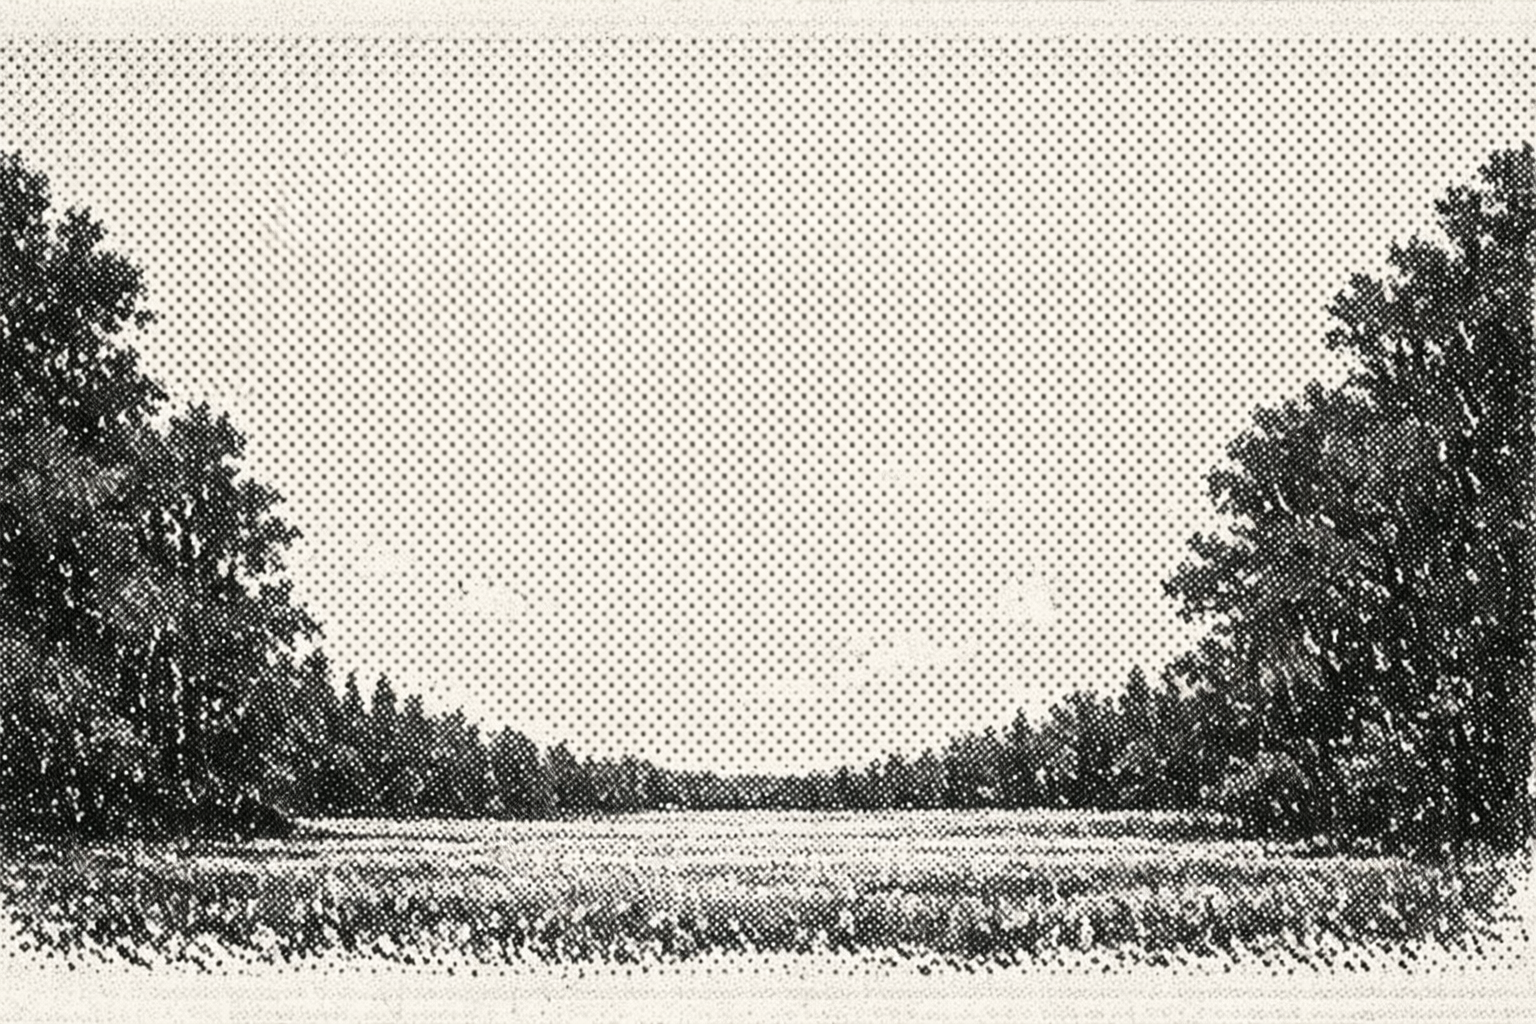
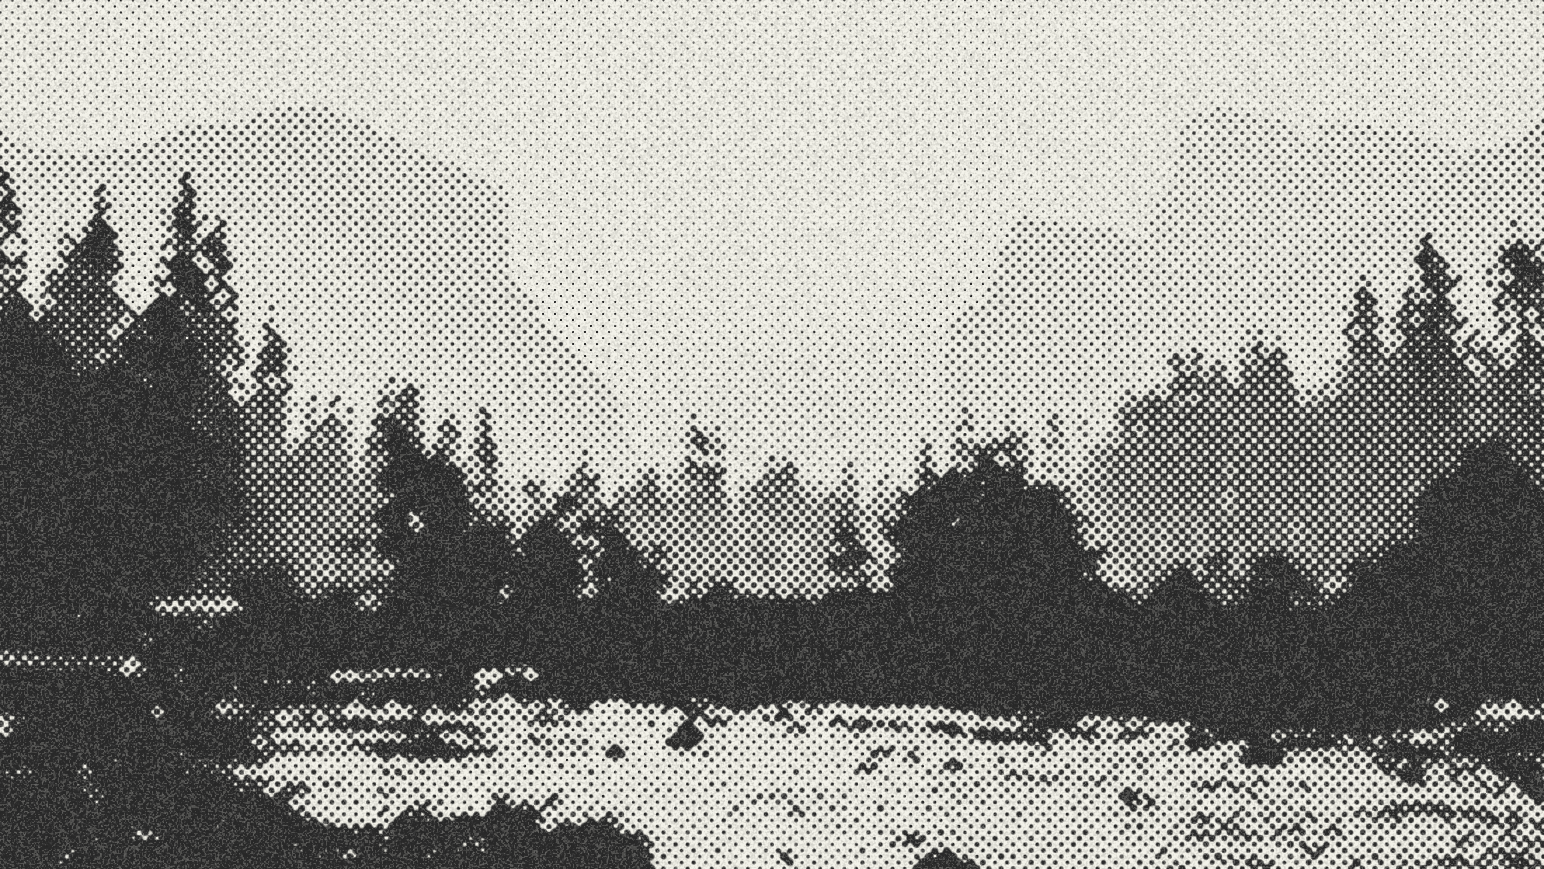
Update footer flourish image and enhance landing page styles with new font and layout adjustments

diff --git a/icrl-ts/web-landing/src/app/page.tsx b/icrl-ts/web-landing/src/app/page.tsx
@@ -163,37 +163,28 @@ export default function LandingPage() {
       <main className="min-h-screen bg-background">
         <SiteHeader />
 
-        <section aria-label="Hero" className="mx-auto max-w-6xl px-6 pb-12 pt-12 md:pt-16">
-          <div className="mx-auto max-w-4xl space-y-6 text-center">
-            <div className="flex items-center justify-center">
-              <Image
-                src="/logo_hero_light.svg"
-                alt="ICRL — In-Context Reinforcement Learning"
-                width={280}
-                height={24}
-                className="dark:hidden"
-                priority
-              />
-              <Image
-                src="/logo_hero_dark.svg"
-                alt="ICRL — In-Context Reinforcement Learning"
-                width={280}
-                height={24}
-                className="hidden dark:block"
-                priority
-              />
-            </div>
-            <h1 className="font-[family-name:var(--font-archivo)] text-4xl font-semibold leading-[1.04] tracking-tight text-foreground sm:text-5xl md:text-6xl">
-              instant, continuous,
-              <br />
-              reinforcement learning
-              <br />
-              for LLM agents
-            </h1>
-            <p className="mx-auto max-w-3xl text-base leading-7 text-muted-foreground sm:text-lg">
-              ICRL turns successful trajectories into reusable decision context so agents improve on
-              the next task instead of waiting for retraining.
-            </p>
+        <section
+          aria-label="Hero"
+          className="mx-auto px-6 pb-12 pt-12 md:pt-32 md:pb-32 max-w-2xl space-y-6 text-center"
+        >
+          <h1 className="font-heading text-4xl font-semibold leading-[1.04] tracking-tight text-foreground sm:text-5xl md:text-6xl">
+            instant, continuous,
+            <br />
+            reinforcement learning
+            <br />
+            for LLM agents
+          </h1>
+          <p className="mx-auto text-base leading-7 text-muted-foreground sm:text-lg text-balance">
+            ICRL turns successful trajectories into reusable decision context so agents improve on
+            the next task instead of waiting for retraining.
+          </p>
+          <div className="flex justify-center">
+            <Button asChild>
+              <a href="/docs">
+                <BookOpen className="size-4" />
+                Open docs
+              </a>
+            </Button>
           </div>
         </section>
 
@@ -202,7 +193,7 @@ export default function LandingPage() {
             <Card className="border-primary/60 bg-card shadow-none md:col-span-7">
               <CardHeader>
                 <CardTitle asChild>
-                  <h2 className="font-[family-name:var(--font-archivo)] text-2xl tracking-tight text-foreground">
+                  <h2 className="font-heading text-2xl tracking-tight text-foreground">
                     What is ICRL
                   </h2>
                 </CardTitle>
@@ -234,7 +225,7 @@ export default function LandingPage() {
             <Card className="border-border/70 bg-card shadow-none md:col-span-5">
               <CardHeader>
                 <CardTitle asChild>
-                  <h2 className="font-[family-name:var(--font-archivo)] text-2xl tracking-tight text-foreground">
+                  <h2 className="font-heading text-2xl tracking-tight text-foreground">
                     ICRL vs traditional RL
                   </h2>
                 </CardTitle>
@@ -263,7 +254,7 @@ export default function LandingPage() {
             <Card className="border-border/70 bg-card shadow-none md:col-span-7">
               <CardHeader>
                 <CardTitle asChild>
-                  <h2 className="font-[family-name:var(--font-archivo)] text-xl tracking-tight text-foreground">
+                  <h2 className="font-heading text-xl tracking-tight text-foreground">
                     Common use cases
                   </h2>
                 </CardTitle>
@@ -288,9 +279,7 @@ export default function LandingPage() {
             <Card className="border-border/70 bg-card shadow-none md:col-span-5">
               <CardHeader>
                 <CardTitle asChild>
-                  <h2 className="font-[family-name:var(--font-archivo)] text-xl tracking-tight text-foreground">
-                    CLI
-                  </h2>
+                  <h2 className="font-heading text-xl tracking-tight text-foreground">CLI</h2>
                 </CardTitle>
               </CardHeader>
               <CardContent className="space-y-4">
@@ -320,9 +309,7 @@ export default function LandingPage() {
             <Card className="border-border/70 bg-card shadow-none md:col-span-5">
               <CardHeader>
                 <CardTitle asChild>
-                  <h2 className="font-[family-name:var(--font-archivo)] text-xl tracking-tight text-foreground">
-                    ICRLHF
-                  </h2>
+                  <h2 className="font-heading text-xl tracking-tight text-foreground">ICRLHF</h2>
                 </CardTitle>
               </CardHeader>
               <CardContent className="space-y-3">
@@ -353,7 +340,7 @@ export default function LandingPage() {
             <Card className="border-border/70 bg-card shadow-none md:col-span-7">
               <CardHeader>
                 <CardTitle asChild>
-                  <h2 className="font-[family-name:var(--font-archivo)] text-xl tracking-tight text-foreground">
+                  <h2 className="font-heading text-xl tracking-tight text-foreground">
                     Proven through Stanford research
                   </h2>
                 </CardTitle>
@@ -399,7 +386,7 @@ export default function LandingPage() {
             >
               <CardContent className="flex flex-col gap-5 py-6 md:flex-row md:items-center md:justify-between">
                 <div className="space-y-2">
-                  <h2 className="font-[family-name:var(--font-archivo)] text-2xl tracking-tight text-foreground">
+                  <h2 className="font-heading text-2xl tracking-tight text-foreground">
                     Start building with ICRL
                   </h2>
                   <p className="text-sm leading-6 text-muted-foreground">

diff --git a/icrl-ts/web-landing/src/components/site-footer.tsx b/icrl-ts/web-landing/src/components/site-footer.tsx
@@ -4,29 +4,28 @@ import { Github } from "lucide-react";
 
 export function SiteFooter() {
   return (
-    <footer className="relative overflow-hidden bg-background/90">
-      <div className="pointer-events-none absolute inset-x-0 bottom-0 h-44 opacity-35 dark:opacity-25">
+    <footer className="relative overflow-hidden bg-background pt-6 md:pt-6">
+      {/* Flourish — fades in from top, adapts to light/dark */}
+      <div
+        className="pointer-events-none absolute inset-0 opacity-20 dark:opacity-10"
+        style={{
+          maskImage: "linear-gradient(to bottom, transparent 0%, transparent 40%, black 130%)",
+          WebkitMaskImage:
+            "linear-gradient(to bottom, transparent 0%, transparent 40%, black 130%)",
+        }}
+      >
         <Image
           src="/visuals/footer-flourish.png"
           alt=""
           fill
-          className="object-cover object-bottom"
-          sizes="100vw"
-          priority={false}
+          className="object-cover object-bottom dark:invert"
+          aria-hidden="true"
         />
       </div>
-      <div className="pointer-events-none absolute inset-0 bg-background/80" />
-      <div className="relative mx-auto flex max-w-6xl flex-col items-center justify-between gap-4 px-6 py-6 sm:flex-row">
-        <p className="text-xs text-muted-foreground">
-          In-Context Reinforcement Learning. Built with ICRL in 2026.
-        </p>
+
+      <div className="relative mx-auto flex max-w-6xl flex-col items-center justify-between gap-4 px-6 pb-6 pt-6 sm:flex-row">
+        <p className="text-xs text-primary/80 font-medium">In-Context Reinforcement Learning</p>
         <nav className="flex items-center gap-4">
-          <Link
-            href="/"
-            className="inline-flex items-center gap-1.5 text-xs text-muted-foreground hover:text-foreground transition-colors"
-          >
-            Landing
-          </Link>
           <Link
             href="/docs"
             className="inline-flex items-center gap-1.5 text-xs text-muted-foreground hover:text-foreground transition-colors"

diff --git a/icrl-ts/web-landing/src/app/globals.css b/icrl-ts/web-landing/src/app/globals.css
@@ -16,6 +16,7 @@
   --color-background: var(--background);
   --color-foreground: var(--foreground);
   --font-sans: var(--font-inter), ui-sans-serif, system-ui, sans-serif;
+  --font-heading: var(--font-archivo), ui-sans-serif, system-ui, sans-serif;
   --font-mono: var(--font-geist-mono);
   --color-sidebar-ring: var(--sidebar-ring);
   --color-sidebar-border: var(--sidebar-border);
